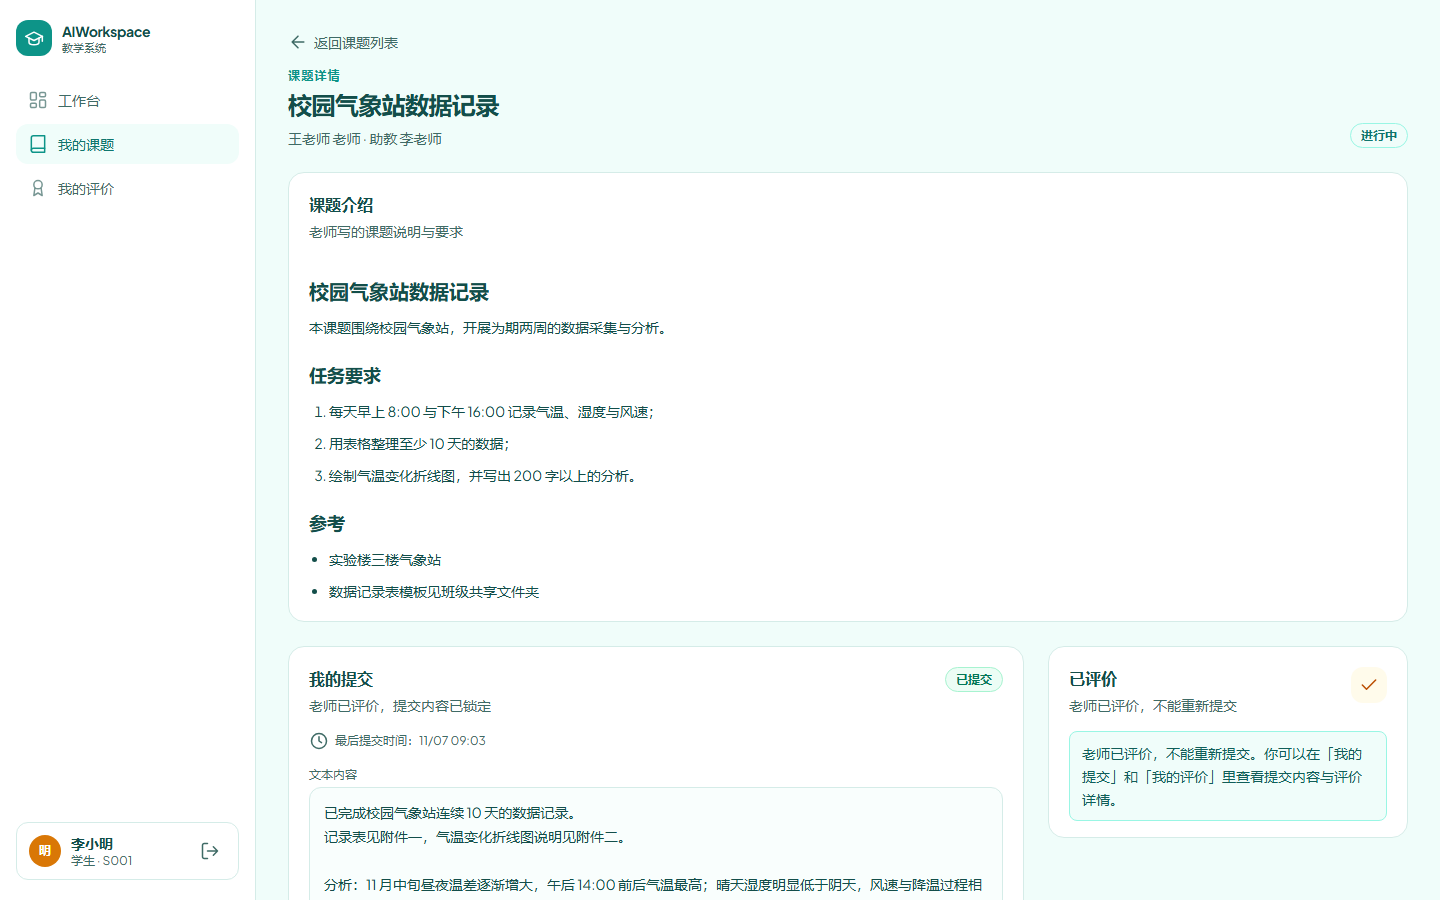
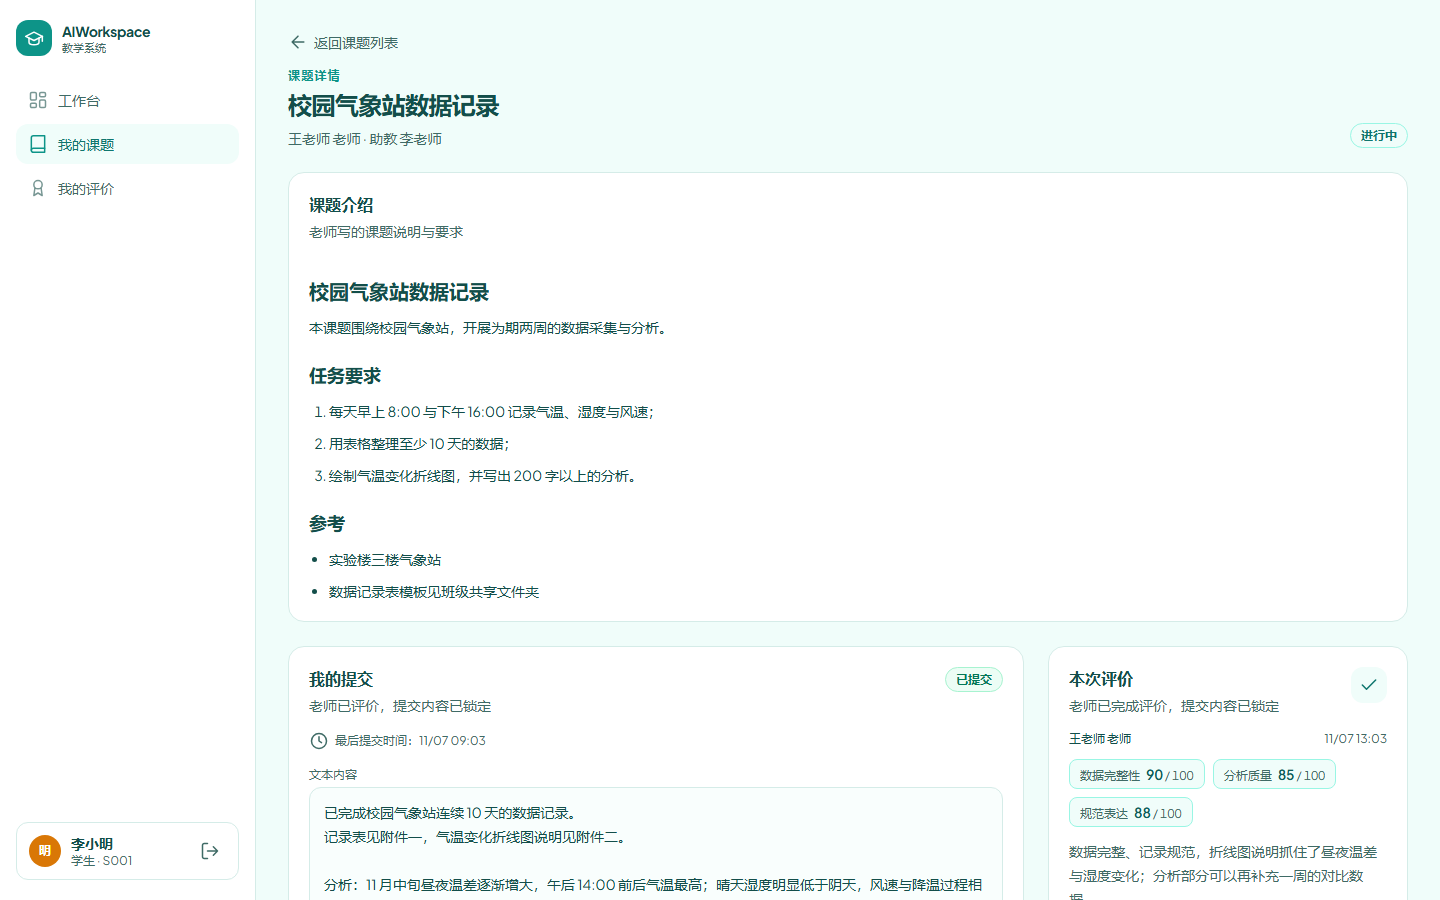
fix(ui): 学生课题详情已评价状态改为「本次评价」摘要卡，去除重复提示；主内容区限制最大宽度并居中

Changed region(s): [[0.7188, 0.7467, 0.9688, 0.9956], [0.7188, 0.9956, 0.75, 1.0]]

diff --git a/web/src/pages/student/TopicDetail.tsx b/web/src/pages/student/TopicDetail.tsx
@@ -142,6 +142,8 @@ export default function StudentTopicDetail() {
   const submissionFiles = submission?.files ?? [];
   const evaluations = data.myEvaluations ?? [];
   const evaluated = evaluations.length > 0;
+  const latestEvaluation =
+    [...evaluations].sort((a, b) => (a.createdAt < b.createdAt ? 1 : -1))[0] ?? null;
   const ownerName = data.owner?.name?.trim();
   const assistantNames = (data.assistants ?? []).map((assistant) => assistant.name).filter(Boolean);
   const headerMeta = ownerName ? `${ownerName} 老师` : "课题";
@@ -277,32 +279,65 @@ export default function StudentTopicDetail() {
         </div>
 
         <aside className="order-1 lg:order-2 lg:sticky lg:top-8 lg:self-start">
-          <Card>
-            <CardHeader>
-              <div>
-                <CardTitle>{evaluated ? "已评价" : submission ? "重新提交" : "提交"}</CardTitle>
-                <CardDescription>
-                  {evaluated
-                    ? "老师已评价，不能重新提交"
-                    : closed
-                      ? "课题已关闭，提交已停止"
-                      : "文本 + 任意附件，可多次提交"}
-                </CardDescription>
-              </div>
-              <span className="grid size-9 place-items-center rounded-xl bg-amber-50 text-amber-700">
-                {evaluated || submission ? <IconCheck /> : <IconFile />}
-              </span>
-            </CardHeader>
-            <CardContent>
-              <SubmitForm
-                topicId={data.id}
-                closed={closed}
-                evaluated={evaluated}
-                submission={submission}
-                onSubmitted={() => void load(false)}
-              />
-            </CardContent>
-          </Card>
+          {evaluated ? (
+            <Card>
+              <CardHeader>
+                <div>
+                  <CardTitle>本次评价</CardTitle>
+                  <CardDescription>老师已完成评价，提交内容已锁定</CardDescription>
+                </div>
+                <span className="grid size-9 place-items-center rounded-xl bg-brand-50 text-brand-700">
+                  <IconCheck />
+                </span>
+              </CardHeader>
+              <CardContent className="space-y-3">
+                {latestEvaluation ? (
+                  <>
+                    <div className="flex flex-wrap items-center justify-between gap-2 text-xs text-ink-soft">
+                      <span className="font-medium text-brand-900">
+                        {latestEvaluation.teacher?.name
+                          ? `${latestEvaluation.teacher.name} 老师`
+                          : "老师评价"}
+                      </span>
+                      <span>{formatDateTime(latestEvaluation.createdAt)}</span>
+                    </div>
+                    <EvaluationScores scores={latestEvaluation.scores} />
+                    <p className="whitespace-pre-wrap text-sm leading-6 text-ink-soft">
+                      {latestEvaluation.comment?.trim() || "老师没有填写评语。"}
+                    </p>
+                    <p className="rounded-lg border border-brand-200 bg-brand-50 px-3 py-2 text-xs leading-relaxed text-brand-800">
+                      老师已评价，不能重新提交；全部历史评价见下方「我的评价」。
+                    </p>
+                  </>
+                ) : (
+                  <p className="text-sm text-ink-soft">老师已评价，提交内容已锁定。</p>
+                )}
+              </CardContent>
+            </Card>
+          ) : (
+            <Card>
+              <CardHeader>
+                <div>
+                  <CardTitle>{submission ? "重新提交" : "提交"}</CardTitle>
+                  <CardDescription>
+                    {closed ? "课题已关闭，提交已停止" : "文本 + 任意附件，可多次提交"}
+                  </CardDescription>
+                </div>
+                <span className="grid size-9 place-items-center rounded-xl bg-amber-50 text-amber-700">
+                  {submission ? <IconCheck /> : <IconFile />}
+                </span>
+              </CardHeader>
+              <CardContent>
+                <SubmitForm
+                  topicId={data.id}
+                  closed={closed}
+                  evaluated={evaluated}
+                  submission={submission}
+                  onSubmitted={() => void load(false)}
+                />
+              </CardContent>
+            </Card>
+          )}
         </aside>
       </div>
     </AppShell>

diff --git a/server/webdist/index.html b/server/webdist/index.html
@@ -6,8 +6,8 @@
     <meta name="viewport" content="width=device-width, initial-scale=1.0" />
     <meta name="theme-color" content="#0d9488" />
     <title>AIWorkspace 教学系统</title>
-    <script type="module" crossorigin src="/assets/index-BV0znOnr.js"></script>
-    <link rel="stylesheet" crossorigin href="/assets/index-BOUHz-nK.css">
+    <script type="module" crossorigin src="/assets/index-D0N6q0G3.js"></script>
+    <link rel="stylesheet" crossorigin href="/assets/index-4-Wz9bLo.css">
   </head>
   <body>
     <div id="root"></div>

diff --git a/web/src/components/shell/AppShell.tsx b/web/src/components/shell/AppShell.tsx
@@ -184,7 +184,9 @@ export function AppShell({ user, children }: { user: User; children: ReactNode }
         </div>
       ) : null}
 
-      <main className="min-w-0 px-4 py-6 sm:px-6 lg:px-8 lg:py-8">{children}</main>
+      <main className="mx-auto w-full min-w-0 max-w-[1440px] px-4 py-6 sm:px-6 lg:px-8 lg:py-8">
+        {children}
+      </main>
     </div>
   );
 }
